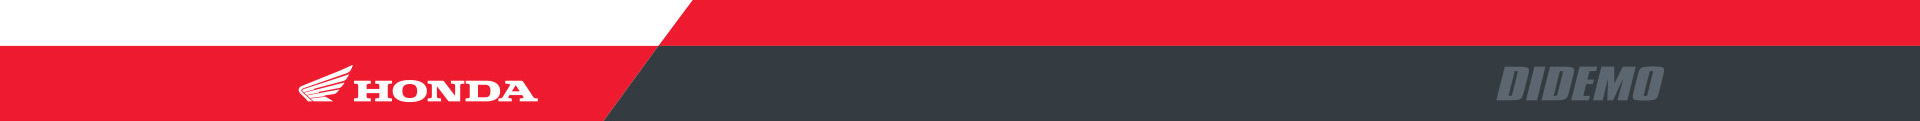
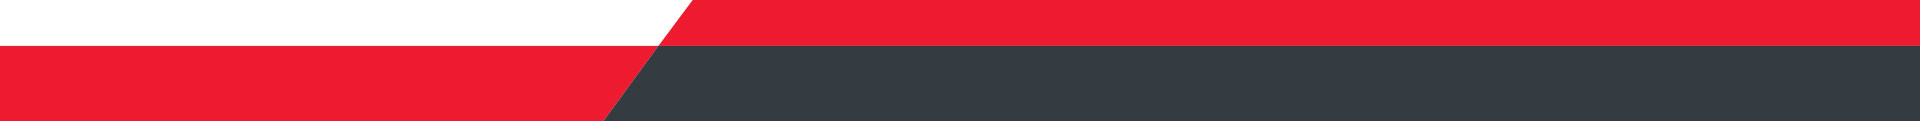
home version 1.0

Changed region(s): [[0.7812, 0.5455, 0.875, 0.843], [0.1562, 0.5455, 0.2812, 0.843]]

diff --git a/src/app/home/menu/menu.component.css b/src/app/home/menu/menu.component.css
@@ -1,109 +1,10 @@
-.fondo-menu-secundario {
-  background-color: #5C6670;
-}
-
-.fondo-menu-secundario a {
-  color: #DEE6EB;
-  padding: 0 15px;
-}
-/* ---------- Fila 1 ------------ */
-.fila1 {
-  height: 50px;
-  background-color: #5C6670;
-}
-
-.fila1 .columna1{
-  width: 24.4%;
-  background-color: white;
-  transform: skewx(-230deg);
-  transform-origin: 100% 0;
-}
-
-.fila1 .columna2{
-  width: 75.6%;
-
-}
-
-
-/* ---------- Fila 2 ------------ */
-.fila2 {
-  height: 60px;
-  background-color: #343B41;
-}
-
-.fila2 .columna1{
-  width: 20%;
-  background-color: #EE1A30;
-  transform: skewx(-230deg);
-  transform-origin: 100% 0;
-}
-
-.fila2 .columna2{
-  width: 80%;
-  padding: 15px 0 0 25px;
-
-}
-
-.fila2 .columna2 a {
-  color: white;
-  margin: 0 15px;
-}
-
-.fila2 .columna2 a:hover {
-  color: #E9E7E7;
-}
-
-.columna2 input{
-  background-color: #5C6670;
-  border: 0;
-  color: white;
-  width: 180%;
-}
-
-#logo {
-  margin-top: 10px;
-  margin-left: 20px;
-  width: 200px;
-  background-color: #EE1A30;
-  transform: skewx(230deg);
-  transform-origin: 100% 0;
-}
-
-
-
-
-
-/* ---------- Fila 3 ------------ */
-
-.fila3 {
-  height: 40px;
-  z-index: 0;
-}
-
-.fila3 .columna1{
-  width: 14.8%;
-  background-color: #343B41;
-  transform: skewx(-230deg);
-  transform-origin: 100% 0;
-  z-index: 6;
-}
-
-.fila3 .columna1 h4{
- color: #5C656F;
- transform: skewx(230deg);
- transform-origin: 100% 0;
-}
-
-
 .menu-header {
   background-image: url('assets/img/img_header_menu.png');
   background-position: center center;
   background-repeat: no-repeat;
-
-  background-size: cover;
+  background-size: 100% 100%;
   z-index: 1;
   height: 170px;
-
 }
 
 .nav-bar-header {
@@ -135,6 +36,7 @@ input {
   color: white;
   padding: 5px;
   margin-top: 5px;
+  width:130px;
 }
 
 

diff --git a/src/app/home/motos/motos.component.html b/src/app/home/motos/motos.component.html
@@ -1,8 +1,8 @@
-<div class="container-fluid p-0 m-0 motos">
+<div class="container-fluid  motos">
   <div class="row">
-    <div class="col-12 col-sm-6 col-md-3 p-0 m-0"><img src="assets/img/motos.jpg"  class="img-fluid w-100 p-1" alt=""></div>
-    <div class="col-12 col-sm-6 col-md-3 p-0 m-0"><img src="assets/img/motos2.jpg"  class="img-fluid w-100 p-1" alt=""></div>
-    <div class="col-12 col-sm-6 col-md-3 p-0 m-0"><img src="assets/img/motos3.jpg"  class="img-fluid w-100 p-1" alt=""></div>
-    <div class="col-12 col-sm-6 col-md-3 p-0 m-0"><img src="assets/img/motos4.jpg"  class="img-fluid w-100 p-1" alt=""></div>
+    <div class="col-12 col-sm-6 col-md-3 p-3 p-sm-0 m-0"><img src="assets/img/motos.jpg"  class="img-fluid w-100 p-1" alt=""></div>
+    <div class="col-12 col-sm-6 col-md-3 p-3 p-sm-0 m-0"><img src="assets/img/motos2.jpg"  class="img-fluid w-100 p-1" alt=""></div>
+    <div class="col-12 col-sm-6 col-md-3 p-3 p-sm-0 m-0"><img src="assets/img/motos3.jpg"  class="img-fluid w-100 p-1" alt=""></div>
+    <div class="col-12 col-sm-6 col-md-3 p-3 p-sm-0 m-0"><img src="assets/img/motos4.jpg"  class="img-fluid w-100 p-1" alt=""></div>
   </div>
 </div>

diff --git a/src/app/home/menu/menu.component.html b/src/app/home/menu/menu.component.html
@@ -1,4 +1,3 @@
-<div class=" ">
     <nav class="navbar navbar-expand-lg navbar-light bg-light mb-5  pb-4 pb-lg-0 d-lg-none">
         <a class="navbar-brand" href="#"><img src="assets/img/honda_logo_footer.png" width="100" height="40" alt=""></a>
         <button class="navbar-toggler" type="button" data-toggle="collapse" data-target="#navbarSupportedContent" aria-controls="navbarSupportedContent" aria-expanded="false" aria-label="Toggle navigation">
@@ -31,12 +30,12 @@
           </form>
         </div>
       </nav>
-</div>
+
 
 <div class="container-fluid d-none d-md-none d-lg-block">
   <div class="row">
-    <div class="col-12 .nav-bar-header  menu-header">
-      <div class="container p-4">
+    <div class="col-12 .nav-bar-header  menu-header m-0">
+      <div class="container-fluid py-4 pr-2">
           <div class="row">
               <div class="col-12 menu1">
                   <ul class="nav justify-content-end">

diff --git a/src/app/home/redes-sociales/redes-sociales.component.html b/src/app/home/redes-sociales/redes-sociales.component.html
@@ -1,11 +1,8 @@
 <div id="redes-sociales">
-
   <a href=""><i class="fa fa-1x fa-list-alt d-block p-2" title="Formulario didemo" aria-hidden="true"></i></a>
-
   <a href=""><i class="fa fa-facebook fa-1x d-block p-2" title="Facebook didemo" aria-hidden="true"></i></a>
-
   <a href=""><i class="fa fa-envelope-o fa-1x d-block p-2" title="Correo didemo" aria-hidden="true"></i></a>
-
-  <a href="">   <i class="fa fa-youtube fa-1x d-block p-2" title="Youtube didemo" aria-hidden="true"></i></a>
-
+  <a href=""><i class="fa fa-youtube fa-1x d-block p-2" title="Youtube didemo" aria-hidden="true"></i></a>
+  <a href=""><i class="fa fa-instagram fa-1x d-block p-2" title="Instagram didemo" aria-hidden="true"></i></a>
+  <a href=""><i class="fa fa-twitter fa-1x d-block p-2" title="Twitter didemo" aria-hidden="true"></i></a>
 </div>

diff --git a/src/app/home/footer/footer.component.html b/src/app/home/footer/footer.component.html
@@ -1,12 +1,11 @@
 <div class="container-fluid">
+  <div class="row img-footer d-none d-md-none d-lg-block p-5">
+   <img src="assets/img/img_honda_footer.png" width="180" class="float-left m-0" alt="">
+   <img src="assets/img/img_didemo_footer.png" width="150" class="float-right"  alt="">
+  </div>
   <div class="row">
-    <div class="col-12 p-0 m-0 d-none d-md-block">
-      <img src="assets/img/img_footer.png"  alt="footer">
-    </div>
-    <div class="row">
-      <div class="col-12 d-block d-md-none footer-secundario">
+    <div class="col-12 d-block d-md-block d-lg-none footer-secundario">
 
-      </div>
     </div>
   </div>
   <div class="row">

diff --git a/src/app/home/filosofia/filosofia.component.html b/src/app/home/filosofia/filosofia.component.html
@@ -1,6 +1,6 @@
 <div class="container-fluid filosifia-fondo">
   <div class="row pt-5">
-    <div class="text-center col-12 col-sm-12 col-md-12 col-lg-12  col-xl-3  ml-sm-auto pl-sm-5  mt-sm-5">
+    <div class="text-center col-12 col-sm-12 col-md-12 col-lg-12  col-xl-3  ml-auto">
       <h3 class="titulo1 pl-5">“El éxito es un 99 por ciento de fracaso”</h3>
       <h3 class="titulo2 pl-5">Soichiro Honda</h3>
     </div>

diff --git a/src/app/home/footer/footer.component.css b/src/app/home/footer/footer.component.css
@@ -1,15 +1,22 @@
-img {
-  height:121px;
-  width: 100%;
+.img-footer {
+  background-image: url('assets/img/img_footer.png');
+  background-position: center center;
+  background-repeat: no-repeat;
+  background-size: 100% 100%;
+  height: 100px;
 }
 
 .footer-secundario{
-  height: 20px;
+  height: 40px;
 }
 
 .footer-fecha {
   background-color: white;
   color:#5B5B5B;
   font-size: 12px;
+}
+
+img {
+
 }
 

diff --git a/src/app/home/modulos/modulos.component.css b/src/app/home/modulos/modulos.component.css
@@ -12,7 +12,7 @@
 
 img{
   width: 100%;
-  height: 300px;
+  height: 250px;
 }
 
 
@@ -27,5 +27,5 @@ h2 {
   height: 10px;
   background-color: #EF1C2D;
   position: absolute;
-  top:270px;
+  top:210px;
 }

diff --git a/src/app/home/redes-sociales/redes-sociales.component.css b/src/app/home/redes-sociales/redes-sociales.component.css
@@ -2,7 +2,7 @@ div {
   position: fixed;
   background: #E2393E;
   right:0px;
-  top:250px;
+  top:150px;
   color: white;
   z-index: 7;
   border-radius: 3px 0 0 3px;
